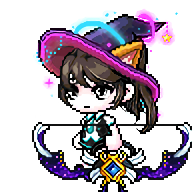
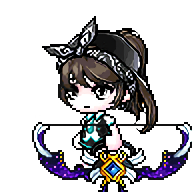
아바타 이미지, css 수정

Changed region(s): [[0.1875, 0.0312, 0.9375, 0.625], [0.9062, 0.0625, 0.9375, 0.0938]]

diff --git a/style.css b/style.css
@@ -4,6 +4,7 @@ body {
     background-position: center;
     background-size: cover;
     background-repeat: no-repeat;
+    font-family: Arial, Helvetica, sans-serif;
 }
 #content {
     text-align: center;
@@ -21,7 +22,7 @@ body {
     width: 300px;
     border-radius: 50%;
     border: solid yellowgreen 5px;
-    background-color: #ffffff;
+    background-color: #eeeeee;
     box-shadow: 3px 3px 3px rgba(0, 0, 0, 0.4);
 }
 #name {
@@ -49,7 +50,7 @@ body {
     flex-wrap: wrap;
     margin-bottom: 100px;
     flex-basis: auto;
-    padding: 20px;
+    padding: 10px;
 }
 .card {
     border-radius: 4px;
@@ -59,7 +60,7 @@ body {
     background-color: #ffffff;
     margin: 10px;
     padding: 5px 20px;
-    min-width: 100px;
+    min-width: 80px;
     color: #000000;
     text-align: left;
     box-shadow: 3px 3px 3px rgba(0,0,0,0.4);
@@ -96,8 +97,6 @@ body {
     }
     #home {
         margin-top : calc(50vh - 30% - 130px);
-    }
-    #home {
         margin-bottom : 20vw;
     }
 }
